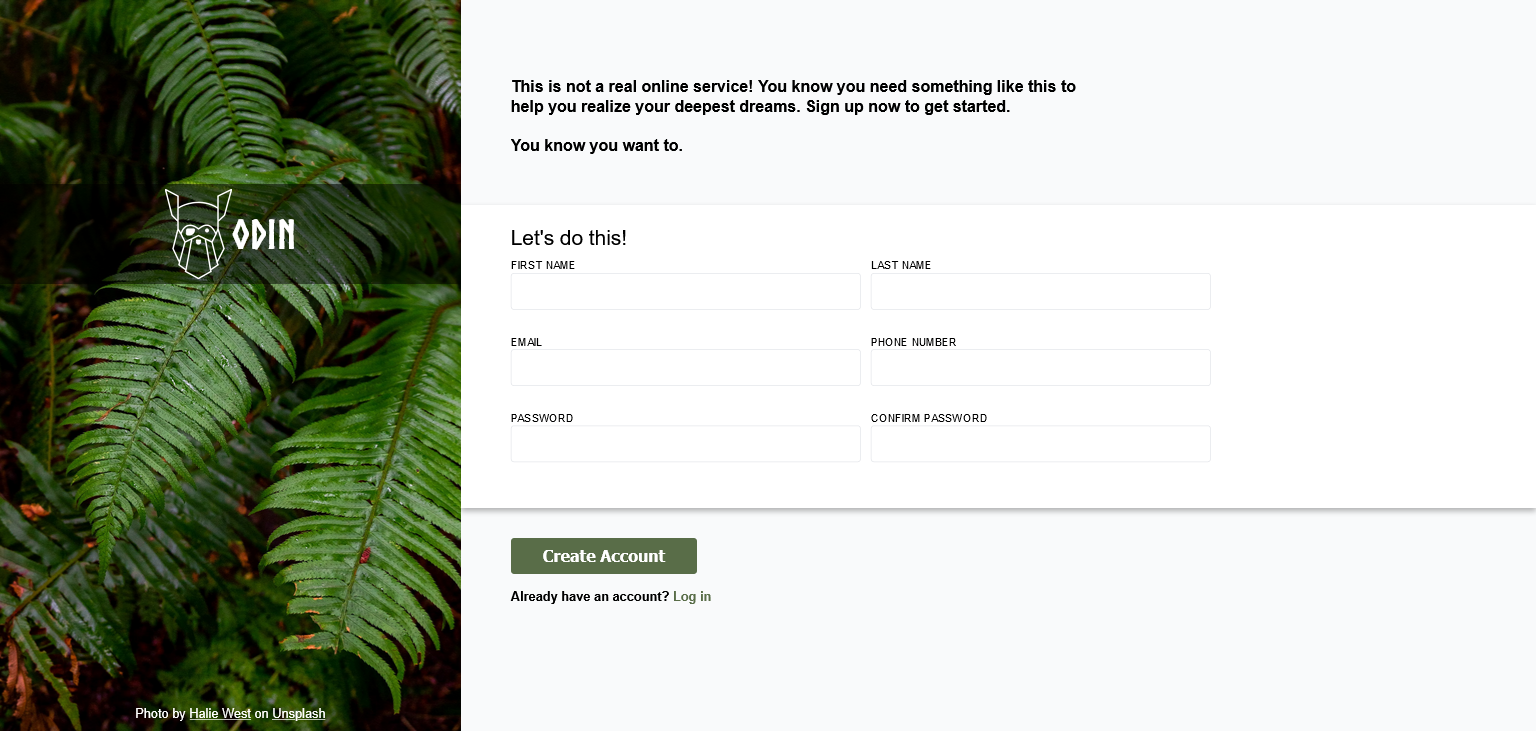
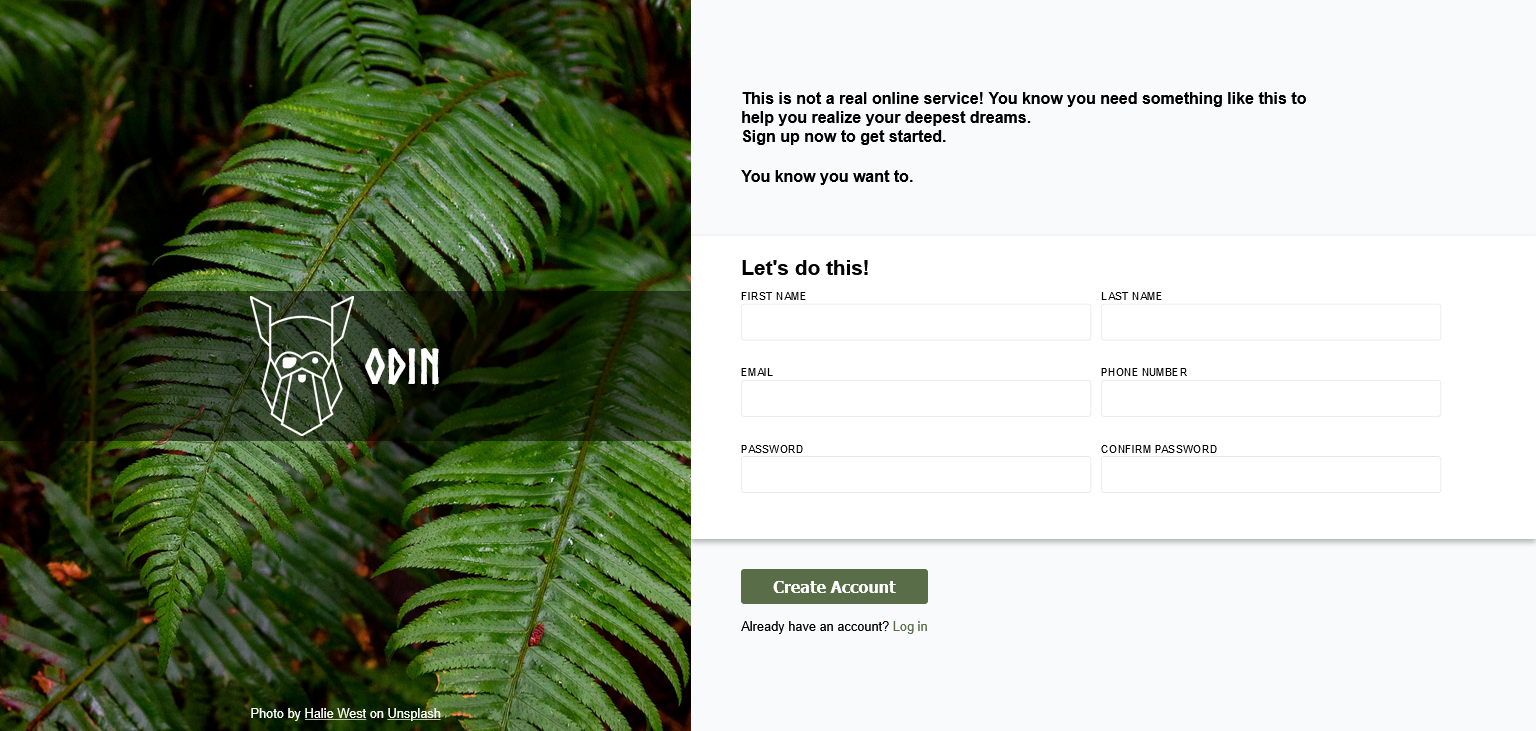
Some Minor Layout Changes

diff --git a/CSS/style.css b/CSS/style.css
@@ -32,7 +32,7 @@ html, body {
 /* Main */
 .main {
     display: grid;
-    grid-template-columns: 30% 70%;
+    grid-template-columns: 45% 55%;
     grid-template-rows: 100%;
     width: 100%;
     height: 100%;
@@ -41,11 +41,13 @@ html, body {
 
 /* Logo Section --Start-- */
 .logoContainer {
+    display: flex;
+    flex-flow: column nowrap;
+    justify-content: center;
     background-image: url("../Assets/images/bg.jpg");
     background-repeat: no-repeat;
     background-size: cover;
     background-position: center;
-    padding-top: 40%;
     position: relative;
 }
 
@@ -54,7 +56,8 @@ html, body {
     display: flex;
     align-items: center;
     justify-content: center;
-    height: 100px;
+    gap: 10px;
+    height: 150px;
     padding: 5px;
 }
 
@@ -65,7 +68,7 @@ html, body {
 
 .logo > h1 {
     font-family: norse-bold;
-    font-size: 2.5rem;
+    font-size: 3rem;
     color: #fff;
 }
 
@@ -113,7 +116,7 @@ html, body {
 
 .formFields {
     background-color: #fff;
-    padding: 20px 50px;
+    padding: 20px 20px 20px 50px;
     box-shadow: 0 3px 5px 0 rgb(0, 0, 0, .3);
 }
 
@@ -124,7 +127,7 @@ html, body {
 
 .form-fieldGroup {
     display: grid;
-    grid-template-columns: repeat(2, minmax(0, 1fr));
+    grid-template-columns: repeat(2, minmax(0, 50%));
     margin: 10px 0;
     width: min(700px, 100%);
 }
@@ -147,6 +150,7 @@ html, body {
 .form-field > input  {
     appearance: none;
     outline: none;
+    width: 100%;
     background-color: #fff;
     border: 1px solid #E5E7EB;
     border-radius: 3px;

diff --git a/index.html b/index.html
@@ -26,7 +26,7 @@
 
       <div class="content">
         <div class="info">
-          <p>This is not a real online service! You know you need something like this to help you realize your deepest dreams. Sign up now to get started.</p>
+          <p>This is not a real online service! You know you need something like this to help you realize your deepest dreams.<br />Sign up now to get started.</p>
           <p>You know you want to.</p>
         </div>
 
